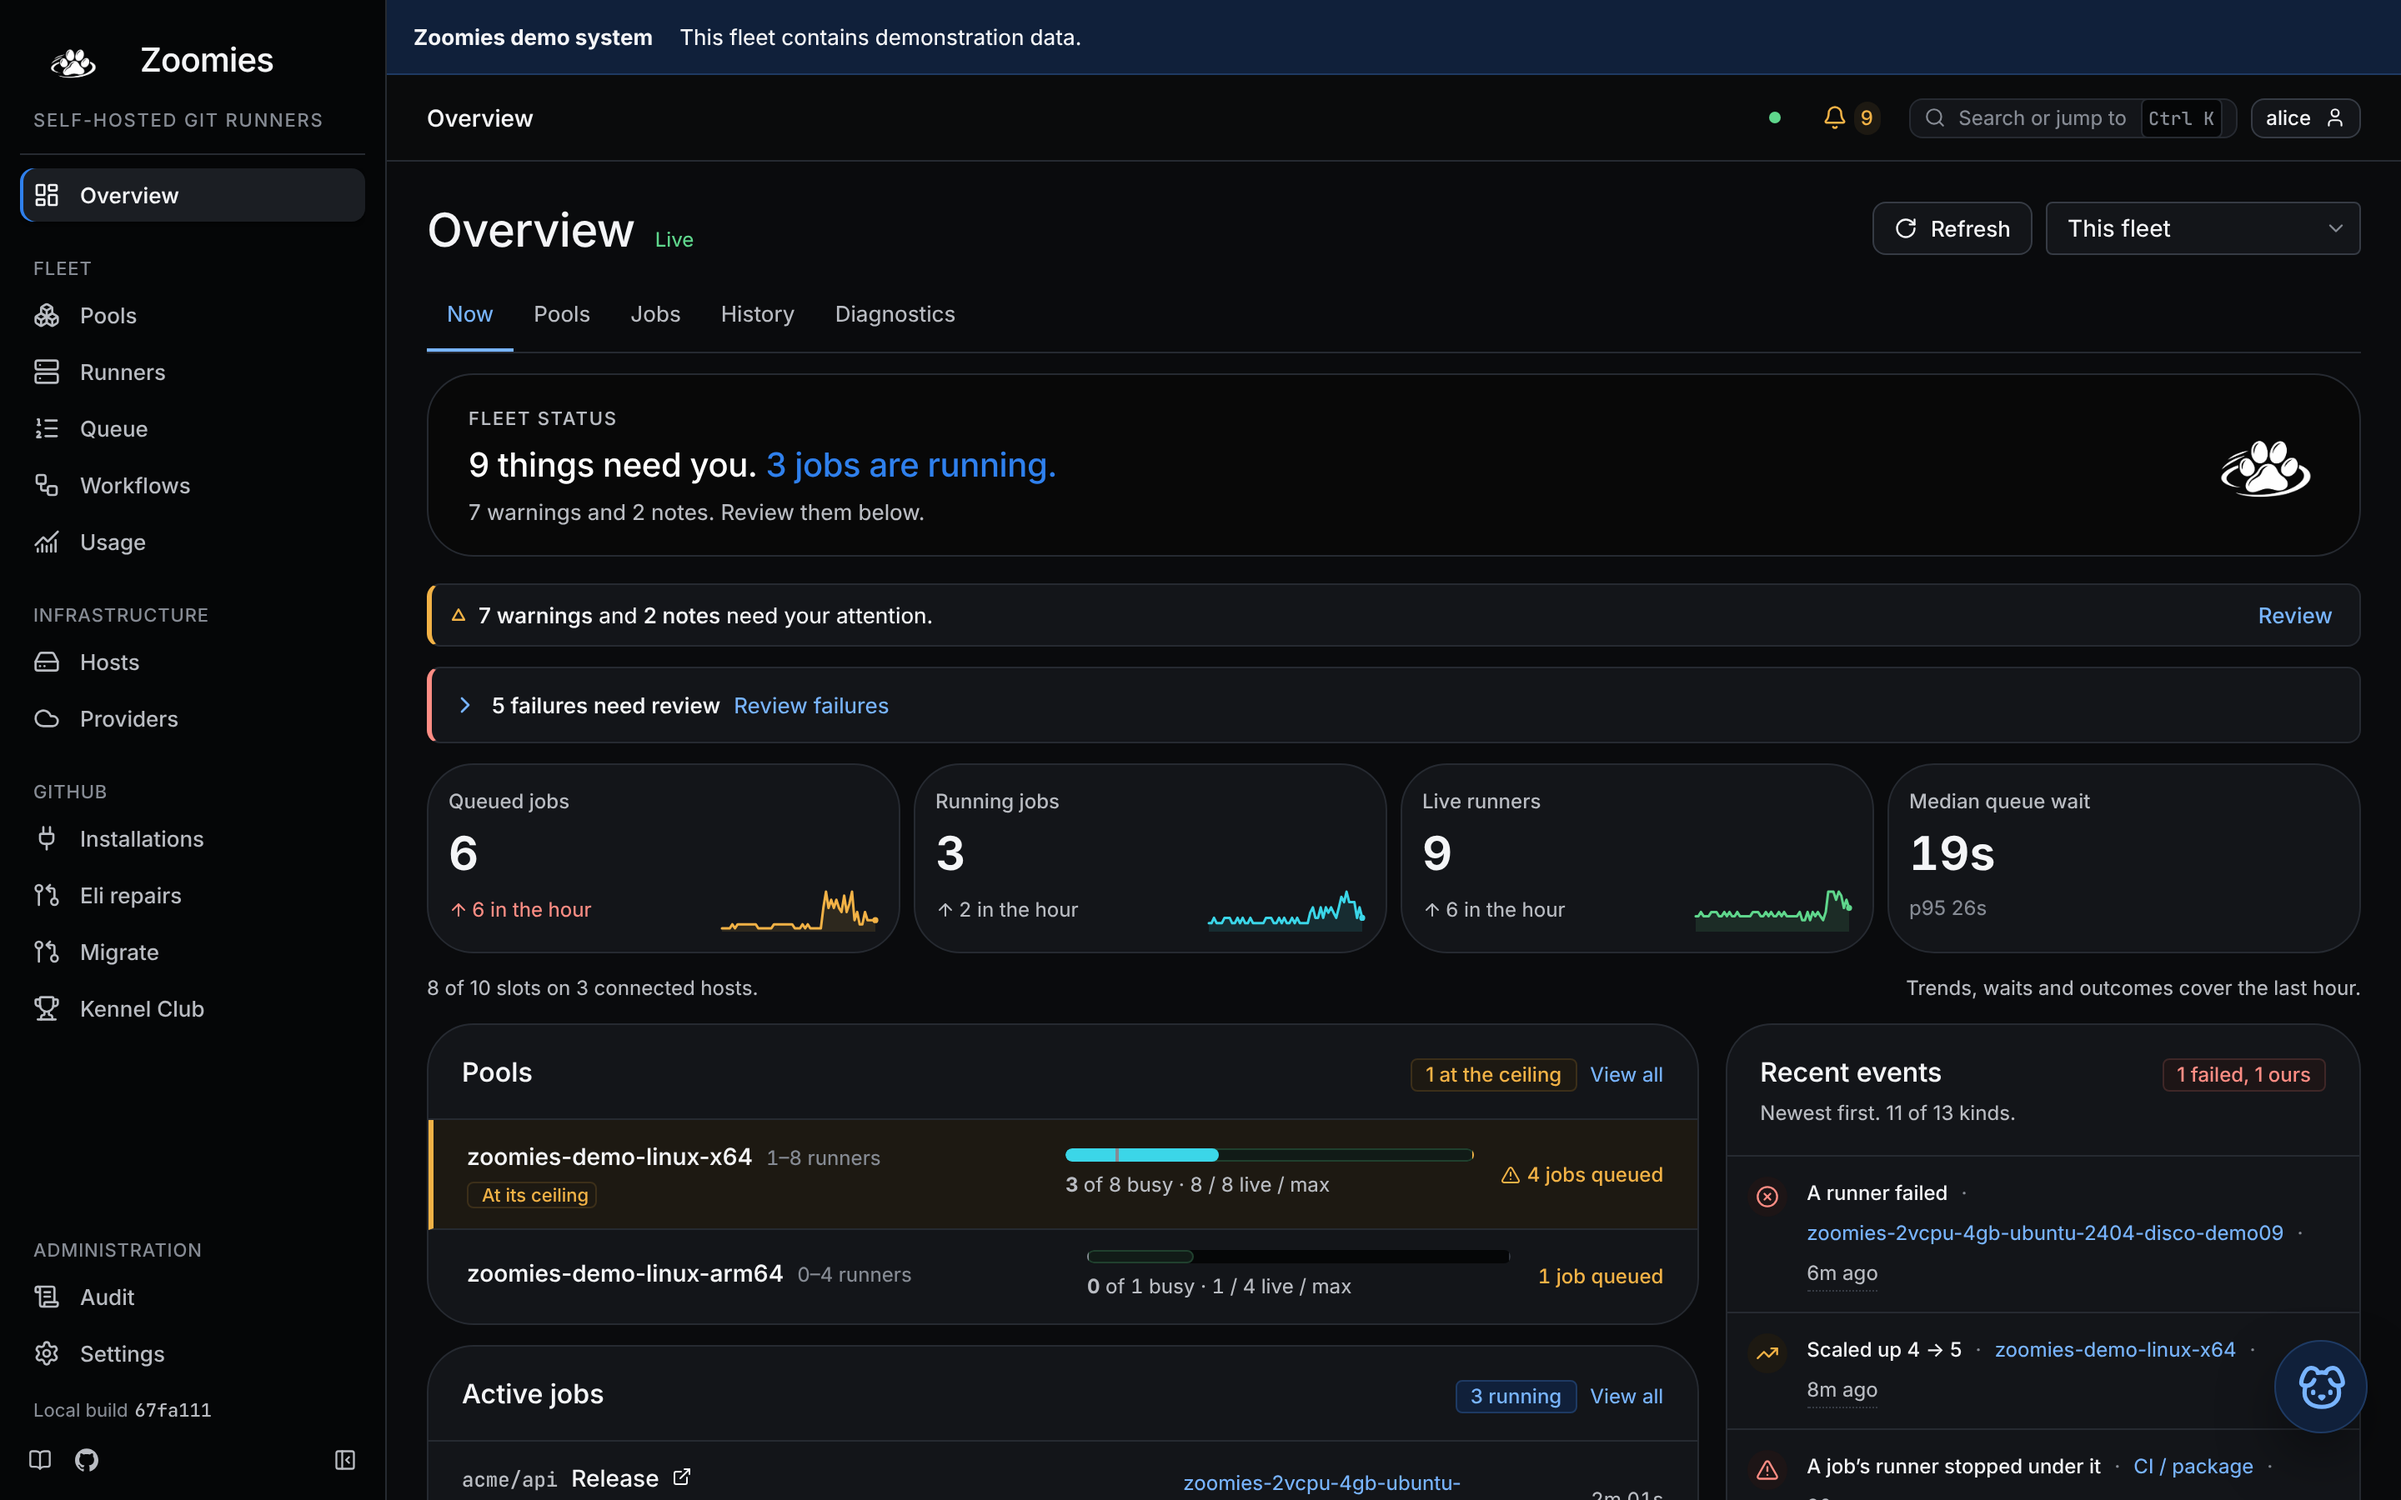
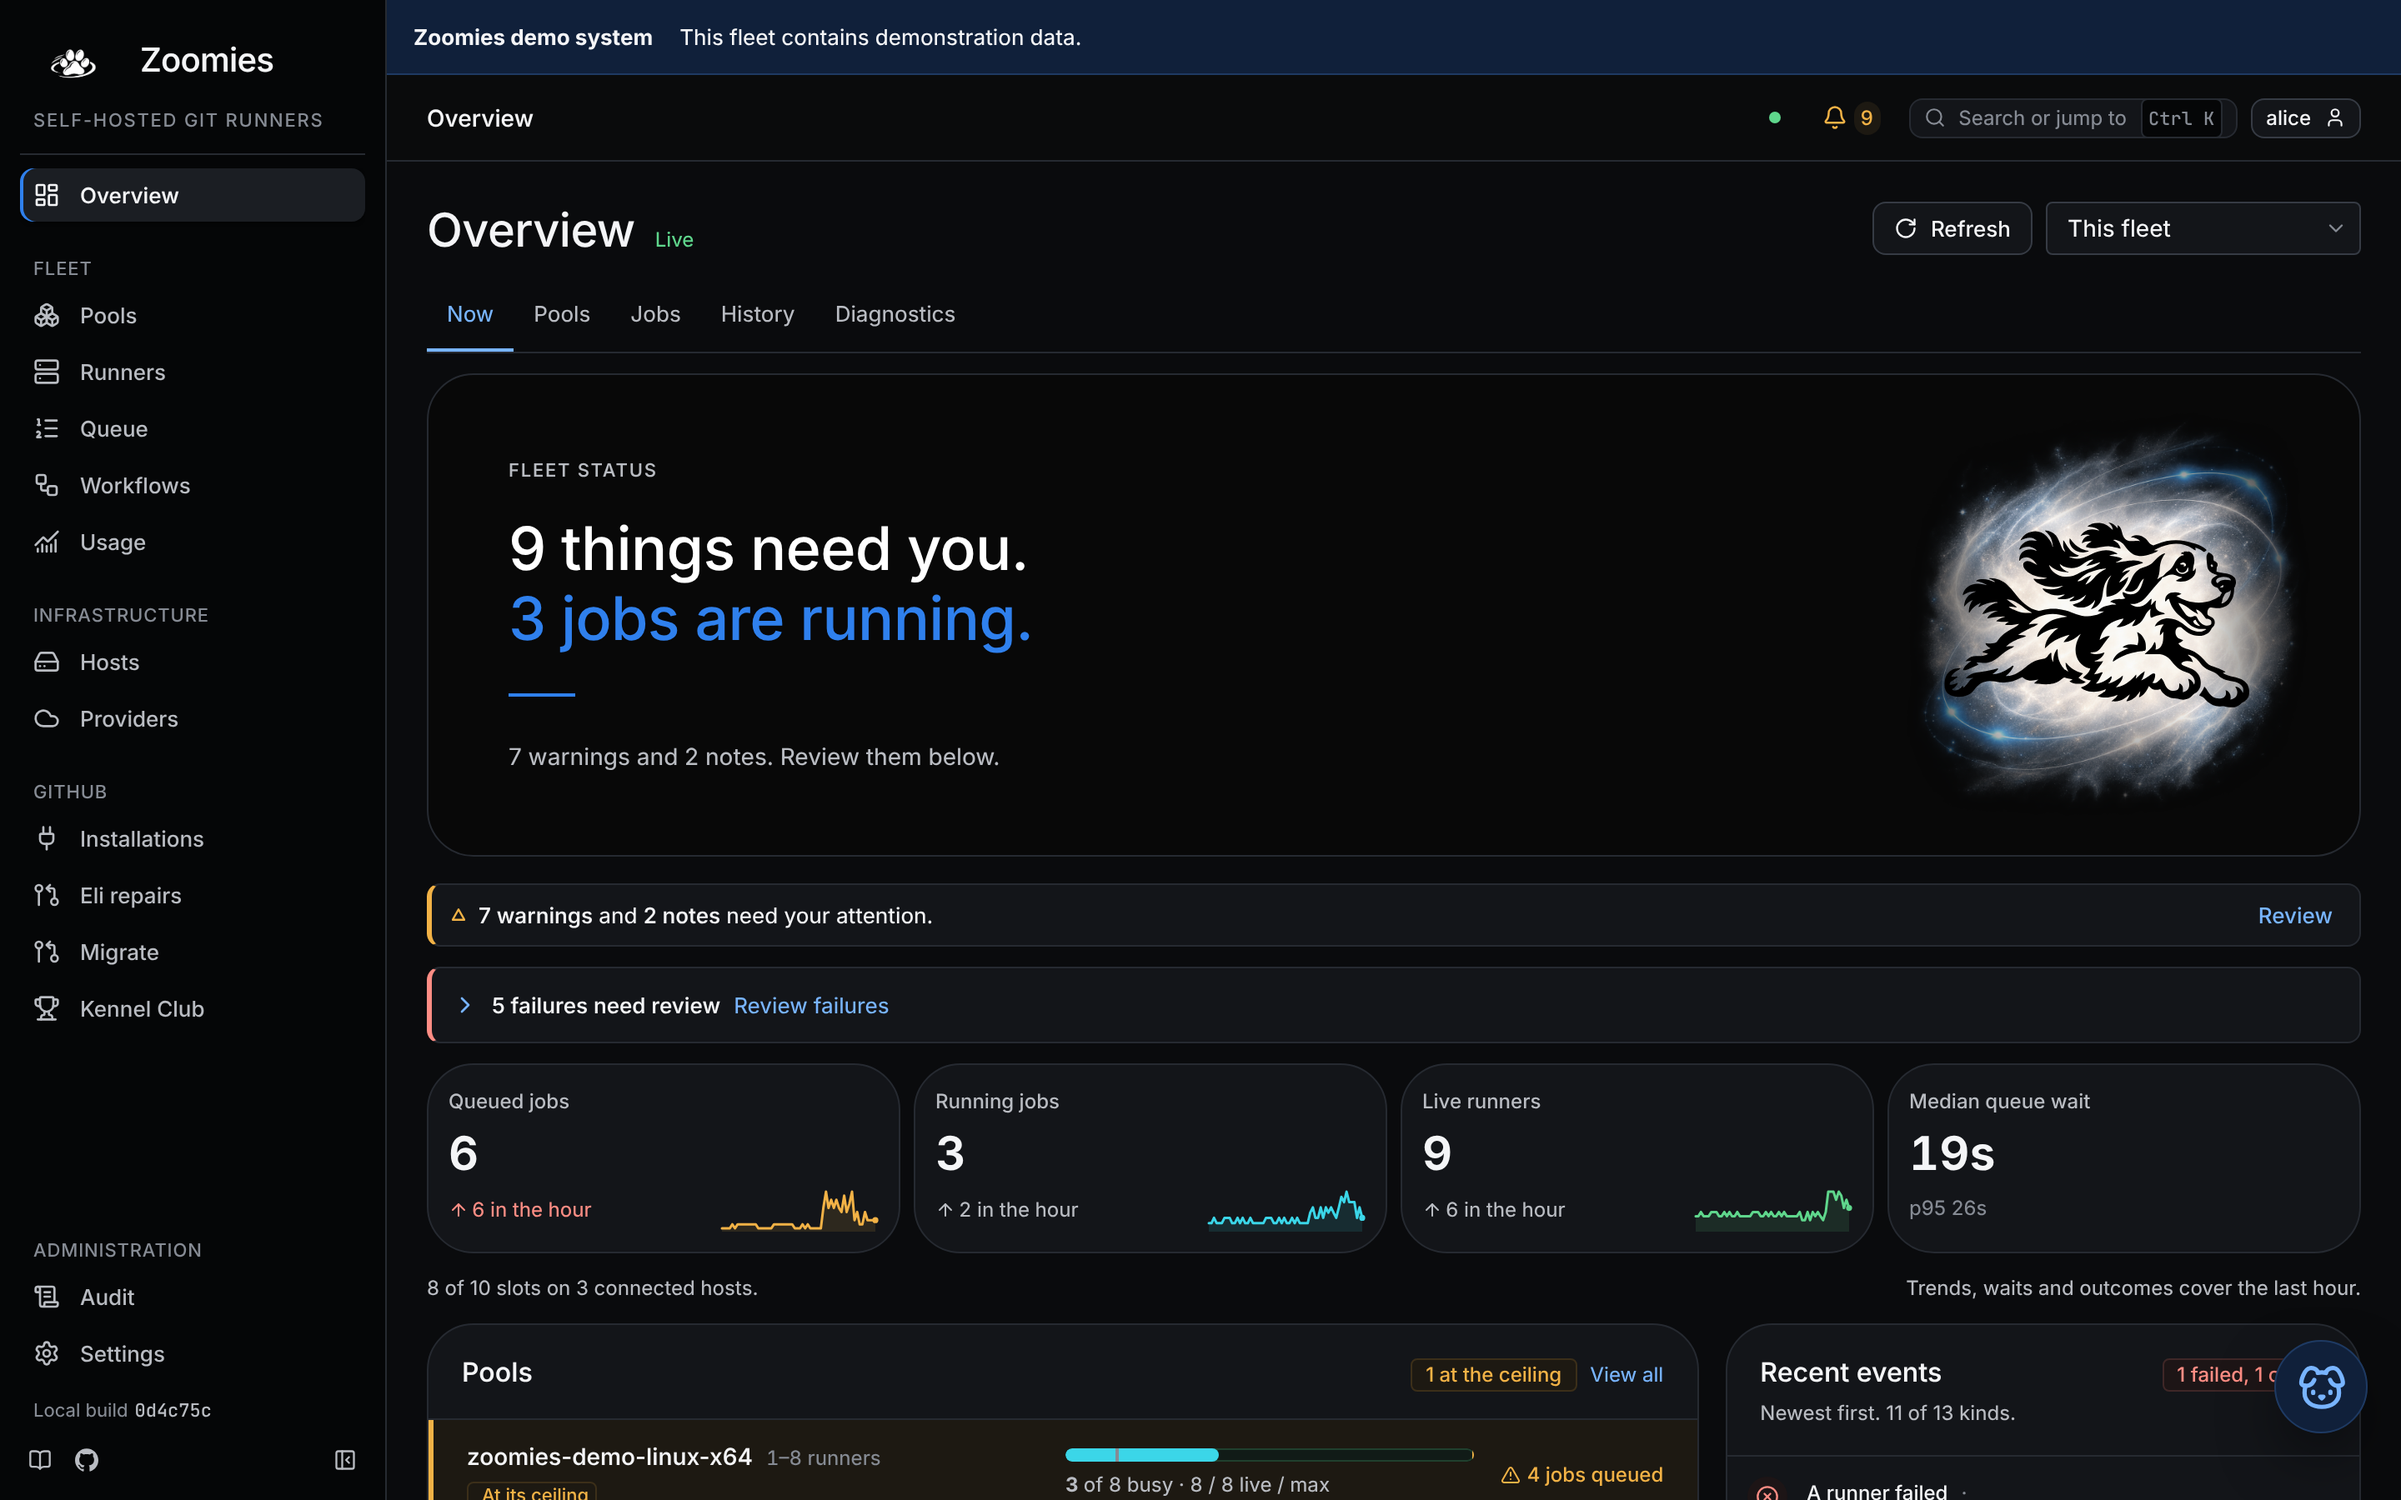
Give the Overview the full hero, with the dog
The stage the public pages use now opens the Overview on a desktop: the dog, a
large headline with its accent, the blue rule and one sentence in counts. It
costs height, so the specs that held the pools within 900px now hold them within
1000px. It is left out on a phone, where the pools must stay on the first screen.

Claude-Session: https://claude.ai/code/session_01GkdhFBr16YDz8GRKZd9MHf

diff --git a/web/src/lib/overview/FleetStatus.svelte b/web/src/lib/overview/FleetStatus.svelte
@@ -3,14 +3,18 @@
 
   The page under it is the evidence (the counts, the pools, the jobs), and an
   operator who opens it fifty times a day is asking one question of it. This is
-  the public pages' stage drawn as a slim band, because the page has a rule the
-  stage must not break: the pools stay on the first screen. It carries neutral
-  white and the brand's blue and no status colour, because the panel is Zoomies
-  Black in both themes and a colour chosen for one of them would be wrong on the
-  other; the problem is named in words, and the line under the band is the way in.
+  the public pages' stage, as the band the status page uses: the dog, an eyebrow,
+  a large headline with its accent, the short blue rule and one sentence. It
+  carries neutral white and the brand's blue and no status colour, because the
+  panel is Zoomies Black in both themes and a colour chosen for one of them would
+  be wrong on the other; the problem is named in counts, and the line under the
+  hero is the way in.
+
+  A phone stacks everything and the pools must still be on its first screen, which
+  even a slim band costs, so the hero is for the screens that have room for both.
 -->
 <script lang="ts">
-  import LogoArt from '$lib/components/LogoArt.svelte';
+  import BrandStage from '$lib/public/BrandStage.svelte';
   import { fleet } from '$lib/state/fleet.svelte';
   import { notifications } from '$lib/state/notifications.svelte';
   import { prefs } from '$lib/state/prefs.svelte';
@@ -37,75 +41,24 @@
 </script>
 
 {#if fleet.loaded}
-  <div class="band" data-testid="fleet-status">
-    <div class="words">
-      <p class="eyebrow">{setupPending ? 'Welcome to Zoomies' : 'Fleet status'}</p>
-      <p class="headline">
-        {line.headline} <span class="accent">{line.accent}</span>
-      </p>
-      <p class="lede">{line.lede}</p>
-    </div>
-    <div class="art" aria-hidden="true">
-      <LogoArt variant="mark" size={64} label="" treatment={prefs.logoTreatment} />
-    </div>
+  <div class="hero" data-testid="fleet-status">
+    <BrandStage
+      wide
+      eyebrow={setupPending ? 'Welcome to Zoomies' : 'Fleet status'}
+      headline={line.headline}
+      accent={line.accent}
+      lede={line.lede}
+      treatment={prefs.logoTreatment}
+    />
   </div>
 {/if}
 
 <style>
-  .band {
-    display: flex;
-    align-items: center;
-    gap: var(--z-space-5);
-    box-sizing: border-box;
-    min-width: 0;
+  .hero {
     margin-bottom: var(--z-space-4);
-    padding: var(--z-space-4) var(--z-space-6);
-    border: var(--z-border-width) solid var(--z-panel-border);
-    border-radius: var(--z-radius-xl);
-    background: var(--z-panel-bg);
-    color: var(--z-panel-text);
   }
-  .words {
-    flex: 1;
-    min-width: 0;
-  }
-  p {
-    margin: 0;
-    overflow-wrap: anywhere;
-  }
-  .eyebrow {
-    margin-bottom: var(--z-space-1);
-    font-size: var(--z-text-2xs);
-    font-weight: var(--z-weight-semibold);
-    letter-spacing: var(--z-tracking-wider);
-    text-transform: uppercase;
-    color: var(--z-panel-text-muted);
-  }
-  .headline {
-    font-size: var(--z-text-xl);
-    line-height: var(--z-leading-xl);
-    font-weight: var(--z-weight-medium);
-    letter-spacing: var(--z-tracking-tight);
-  }
-  .accent {
-    color: var(--z-brand-runner-blue);
-  }
-  .lede {
-    margin-top: var(--z-space-1);
-    font-size: var(--z-text-sm);
-    line-height: var(--z-leading-sm);
-    color: var(--z-panel-text-muted);
-  }
-  .art {
-    flex: none;
-    width: var(--z-space-16);
-  }
-  /* A phone stacks everything and the pools must still be on its first screen
-     (calm-overview.spec holds the line at 800px), which even a single line of
-     band costs. The line under the page's controls already says whether anything
-     needs a person, so the band is for the screens that have room for both. */
   @media (max-width: 768px) {
-    .band {
+    .hero {
       display: none;
     }
   }

diff --git a/web/tests/operational-layout.spec.ts b/web/tests/operational-layout.spec.ts
@@ -19,7 +19,7 @@ test('Mission Control shows current work before activity history and retains tim
   await goto(page, '/', 'Overview');
   const pools = page.getByRole('heading', { name: 'Pools', exact: true });
   const history = page.locator('#history > summary');
-  expect(await pools.evaluate((node) => node.getBoundingClientRect().top)).toBeLessThan(900);
+  expect(await pools.evaluate((node) => node.getBoundingClientRect().top)).toBeLessThan(1000);
   expect(await history.evaluate((node) => node.getBoundingClientRect().top)).toBeGreaterThan(
     await pools.evaluate((node) => node.getBoundingClientRect().top),
   );

diff --git a/web/tests/calm-overview.spec.ts b/web/tests/calm-overview.spec.ts
@@ -28,7 +28,7 @@ for (const style of ['classic', 'mission-control']) {
         await expect(page.locator(`#${id}`)).not.toHaveAttribute('open');
       await expect(page.locator('#history > summary')).toContainText(/finished/);
       expect((await pools.getByRole('listitem').first().boundingBox())!.y).toBeLessThan(
-        width === 375 ? 800 : 900,
+        width === 375 ? 800 : 1000,
       );
       const order = await page
         .locator('#now, #pools, #jobs, #events, #history, #diagnostics')

diff --git a/docs/ui-guidelines.md b/docs/ui-guidelines.md
@@ -661,12 +661,14 @@ can collide with), sets the title in the medium weight, and puts a short blue
 rule under it; the Overview, which stands alone, has no section to name. Panels
 are cards with the extra-large radius, on the page's own surface: the quiet
 text colours are only guaranteed to read on it, and a raised one costs the
-gallery's contrast check in dark. The Overview opens with a slim
-band, Zoomies Black in both themes, that answers "is anything wrong" in one
-sentence (counts by severity, never a problem's own words) and has no status
-colour in it; it is a band and not the public pages' tall stage, and it is left out on a
-phone, because the pools must stay on the first screen. The wrong-address page uses the full band
-with the dog.
+gallery's contrast check in dark. The Overview opens with the public pages'
+stage as a hero, Zoomies Black in both themes: the dog, an eyebrow, a large headline with its accent, the short
+blue rule and one sentence that answers "is anything wrong" in counts by
+severity, never a problem's own words, and with no status colour in it. It costs
+the Overview some height, so the pools start within the first 1000px of a
+desktop window and no longer within 900px; the hero is left out on a phone,
+where the pools must still be on the first screen. The wrong-address page uses
+the same stage with the dog.
 
 Persistent left navigation, collapsible to icons only (persisted). Order is
 fixed, because muscle memory is the point:
